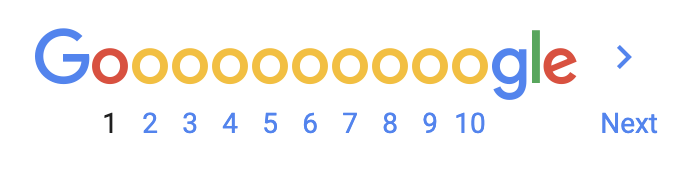
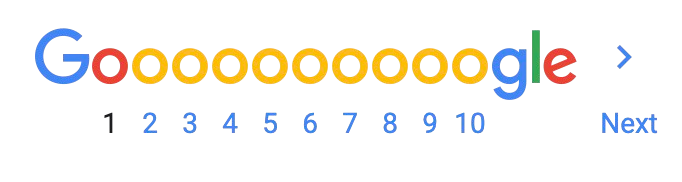
adding javascript

Changed region(s): [[0.154, 0.1648, 0.8622, 0.467], [0.8622, 0.6319, 0.893, 0.6593], [0.0924, 0.4121, 0.1232, 0.4396]]

diff --git a/scripts.js b/scripts.js
@@ -1,0 +1,58 @@
+(() => {
+  function insertStyles() {
+    if (document.getElementById('revolve')) return;
+    const css = `
+      .panel-card.revolve {
+        position: relative; /* allow bubble absolute positioning */
+        animation: revolve-rotate 20s linear infinite;
+        transform-origin: center center;
+      }
+
+      @keyframes revolve-rotate {
+        from { transform: rotate(0deg); }
+        to { transform: rotate(360deg); }
+      }
+
+      /* bubble that sits on the panel image */
+      .panel-card .revolve-bubble {
+        position: absolute;
+        top: 12px;
+        left: 12px;
+        background: rgba(26,115,232,0.95);
+        color: white;
+        padding: 6px 10px;
+        border-radius: 999px;
+        font-size: 12px;
+        box-shadow: 0 6px 16px rgba(0,0,0,0.12);
+        pointer-events: none;
+      }
+    `;
+    const style = document.createElement('style');
+    style.id = 'revolve';
+    style.appendChild(document.createTextNode(css));
+    document.head.appendChild(style);
+  }
+
+  document.addEventListener('DOMContentLoaded', () => {
+    insertStyles();
+    const panel = document.querySelector('.panel-card');
+    const body = document.querySelector("body");
+
+    panel.classList.add('revolve');
+
+      let hue = 0;
+      const imgs = Array.from(document.querySelectorAll('img'));
+      const timeInterval = 50; 
+      const interval = setInterval(() => {
+        hue = (hue + 2) % 360;
+       
+        const filter = `hue-rotate(${hue}deg) saturate(1.05)`;
+        panel.style.filter = filter;
+        imgs.forEach(img => { img.style.filter = filter; });
+        body.style.background = `linear-gradient(120deg, hsl(${hue} 60% 95%), hsl(${(hue + 60) % 360} 60% 92%))`;
+      }, timeInterval);
+
+    // cleanup 
+    window.addEventListener('beforeunload', () => clearInterval(interval));
+  });
+})();

diff --git a/index.html b/index.html
@@ -8,6 +8,8 @@
   <link rel="preconnect" href="https://fonts.gstatic.com" crossorigin>
   <link href="https://fonts.googleapis.com/css2?family=Roboto:wght@400;500&display=swap" rel="stylesheet">
   <link rel="stylesheet" href="google-style.css" />
+
+  <script src="scripts.js" defer></script>
 </head>
 <body>
   <header class="topbar">
@@ -86,7 +88,7 @@
 
       </div>
       <div class="footer">
-        <img src="assets/google-footer.png" alt="Google Logo"/>
+        <img src="assets/google-footer.png" alt="Google Logo" id="google-footer-img"/>
       </div>
     </section>
 
@@ -94,6 +96,7 @@
       <div class="panel-card">
         <img src="https://upload.wikimedia.org/wikipedia/commons/6/63/Constant_Dullaart.jpg" alt="">
         <h1>Constant Dullaart</h1>
+        <h1>(The Revolving Artist)</h1>
         <p class="subtitle">Dutch conceptual artist</p>
 
         <div class="info">

diff --git a/google-style.css b/google-style.css
@@ -154,6 +154,9 @@ body {
 .footer {
   margin-top: 30px;
   text-align: left;
+}
+
+#google-footer-img {
   transform: scale(0.5);
 }
 
